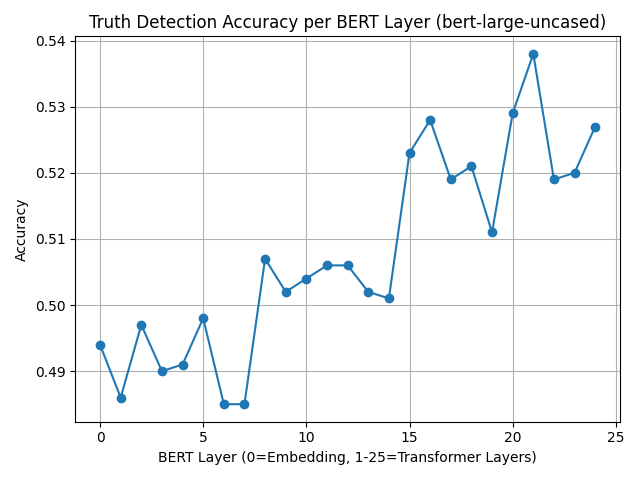
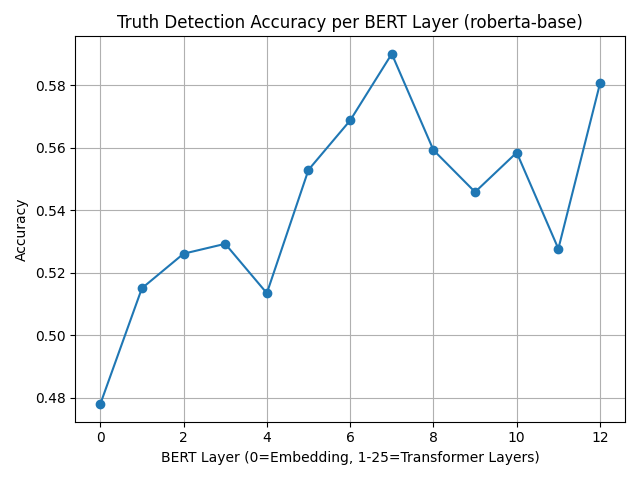
Different BERT models and autotokenizer

diff --git a/20250422 Toy Model/main.py b/20250422 Toy Model/main.py
@@ -17,6 +17,7 @@ import torch.nn as nn
 import torch.optim as optim
 import matplotlib.pyplot as plt
 from transformers import BertTokenizer, BertModel
+from transformers import AutoTokenizer, AutoModel
 from datasets import load_dataset
 from sklearn.model_selection import train_test_split
 import random
@@ -25,10 +26,11 @@ import random
 # ✅ Choose dataset source: 'truthfulqa', 'boolq', or 'both'
 # --------------------
 # options: "truthfulqa", "boolq", "truefalse", or "all"
-dataset_source = "arithmetic"
+dataset_source = "truefalse"
 
 # ✅ Model config
-bert_model_name = "bert-large-uncased"  # or "bert-base-uncased"
+model_name = "bert-large-uncased"  # or "bert-base-uncased"
+model_name = 'roberta-base'
 
 use_control_tasks = True
 
@@ -41,12 +43,12 @@ print(f"🖥  Using device: {device}")
 # --------------------
 # ✅ Load BERT
 # --------------------
-print("📦 Loading BERT model and tokenizer...")
-tokenizer = BertTokenizer.from_pretrained(bert_model_name)
-model = BertModel.from_pretrained(
-    bert_model_name, output_hidden_states=True).to(device)
+print("📦 Loading model and tokenizer...")
+tokenizer = AutoTokenizer.from_pretrained(model_name)
+model = AutoModel.from_pretrained(
+    model_name, output_hidden_states=True).to(device)
 model.eval()
-print("✅ BERT is ready.")
+print("✅ Model is ready.")
 
 # --------------------
 # ✅ Load dataset
